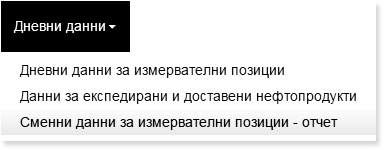
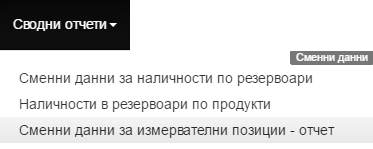
Аdd MonthlyForms And Reports

diff --git a/Source/Web/CollectingProductionDataSystem.Web/Areas/Documentation/Controllers/HelpController.cs b/Source/Web/CollectingProductionDataSystem.Web/Areas/Documentation/Controllers/HelpController.cs
@@ -233,5 +233,13 @@ namespace CollectingProductionDataSystem.Web.Areas.Documentation.Controllers
               {
                     return PartialView();
               }
+        public PartialViewResult MonthlyReportType()
+              {
+                    return PartialView();
+              }
+        public PartialViewResult UnitsMonthlyConfig()
+              {
+                    return PartialView();
+              }
     }
 }
